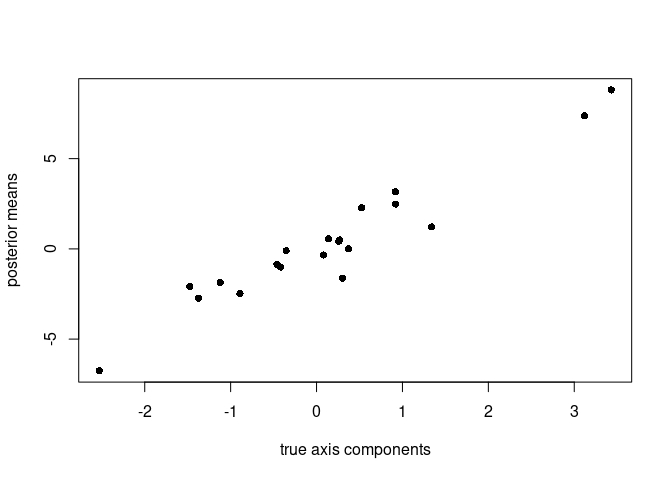
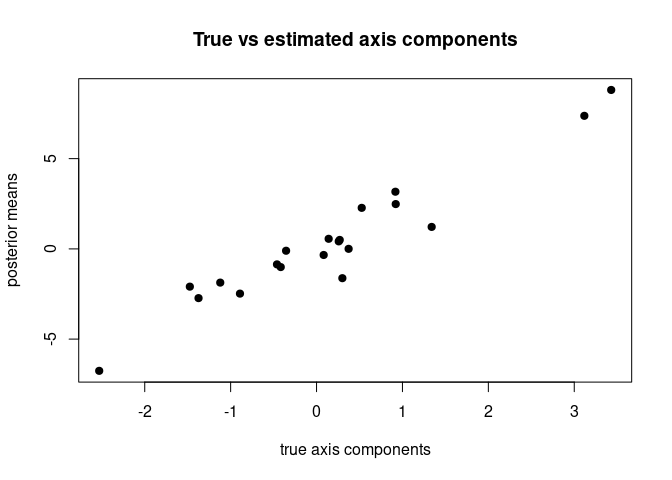
readme updates

Changed region(s): [[0.2812, 0.0625, 0.7812, 0.0938], [0.5, 0.5, 0.5312, 0.5312]]

diff --git a/README.md b/README.md
@@ -69,7 +69,8 @@ plot(rbind(Y, X1, X2),
      col = c(rep('grey', 200), 
              rep('dodgerblue2', 100), 
              rep('firebrick1', 100)),
-     xlab = 'dim_1', ylab = 'dim_2')
+     xlab = 'dim_1', ylab = 'dim_2',
+     main = "Contrastive axis on 2D data")
 
 mle_estimate = pcpca_mle(X,Y, gamma = .85)
 #> The first 2 of 2 eigenvalues of C are positive.
@@ -105,7 +106,7 @@ mcmc_estimate = pcpca_mcmc(X, Y, .85, d = 1,
 #> 
 #> All 4 chains finished successfully.
 #> Mean chain execution time: 0.0 seconds.
-#> Total execution time: 0.6 seconds.
+#> Total execution time: 0.5 seconds.
 
 W_draws = mcmc_estimate$draws('W', format = 'matrix')[sample.int(4000,40),]
 
@@ -145,7 +146,8 @@ dimensions requires more data for clear inference.
 Nonetheless, this doesn’t always work. If you notice component(s) of
 `W_id` that seem to be symmetrically flipping about zero, that means
 there’s substantial probability that the posterior mean isn’t pointing
-in the right direction.
+in the right direction. This diagnostic use is one of the main
+advantages of the MCMC approach.
 
 ``` r
 library(ezpzmcmcpcpca)
@@ -207,14 +209,14 @@ res_mcmc = pcpca_mcmc(X, Y, .85, 2,
 #> The first 8 of 10 eigenvalues of C are positive.
 #> Running MCMC with 4 parallel chains...
 #> 
-#> Chain 3 finished in 2.4 seconds.
-#> Chain 4 finished in 2.4 seconds.
-#> Chain 2 finished in 2.6 seconds.
-#> Chain 1 finished in 2.9 seconds.
+#> Chain 3 finished in 2.2 seconds.
+#> Chain 4 finished in 2.2 seconds.
+#> Chain 2 finished in 2.4 seconds.
+#> Chain 1 finished in 2.8 seconds.
 #> 
 #> All 4 chains finished successfully.
-#> Mean chain execution time: 2.6 seconds.
-#> Total execution time: 3.0 seconds.
+#> Mean chain execution time: 2.4 seconds.
+#> Total execution time: 2.9 seconds.
 #> Warning: 1 of 4000 (0.0%) transitions ended with a divergence.
 #> See https://mc-stan.org/misc/warnings for details.
 
@@ -249,10 +251,11 @@ pal_fun = colorRampPalette(c('grey', 'red'))
 contrast_cols = pal_fun(20)[cut((contrastive_magnitude / max(contrastive_magnitude)),
                                 breaks = 20) |> as.numeric()]
 
-rbind(Y, X) %*% matrix(res_mcmc$summary("W_id")$mean, ncol = 2) |> 
+rbind(X) %*% matrix(res_mcmc$summary("W_id")$mean, ncol = 2) |> 
   plot(xlab = "", ylab = "",
-       col = c(rep("grey", 500),
-               contrast_cols), 
+       main = "10D data projected to first two contrastive axes",
+       sub = "Points colored by magnitude of true contrastive noise",
+       col = contrast_cols, 
        pch = 19)
 ```
 
@@ -261,7 +264,9 @@ rbind(Y, X) %*% matrix(res_mcmc$summary("W_id")$mean, ncol = 2) |>
 ``` r
 
 plot(W_rand[1:(p*k)], matrix(res_mcmc$summary("W_id")$mean, ncol = 1), 
-     pch = 16, xlab = 'true axis components', ylab = 'posterior means')
+     pch = 19, 
+     xlab = 'true axis components', ylab = 'posterior means', 
+     main = "True vs estimated axis components")
 ```
 
 <img src="man/figures/README-unnamed-chunk-3-3.png" width="100%" />
